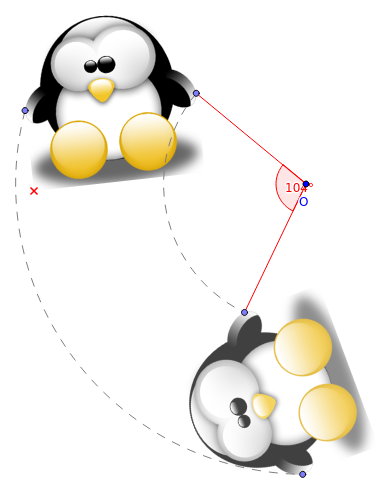
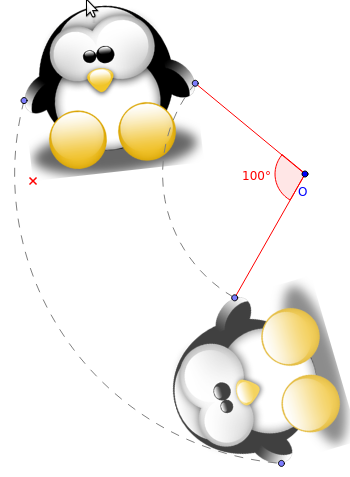
mloz3e2022 - G2 : Cours - Temp Rappels rotation figure

diff --git a/mloz3e2022/G2/G2/inc/coursSubSection004.tex b/mloz3e2022/G2/G2/inc/coursSubSection004.tex
@@ -8,7 +8,69 @@
 \end{definition}
 
 \begin{center}
-    \includegraphics[scale=0.5]{\currentpath/images/coursRotationTux.png}
+    \begin{minipage}{0.45\linewidth}
+        \includegraphics[scale=0.4]{\currentpath/images/coursRotationTux.png}
+    \end{minipage}
+    \begin{minipage}{0.45\linewidth}        
+        \begin{tikzpicture}[scale=1,>=triangle 45]
+            % Points
+            \coordinate (A) at (2,3);
+            \coordinate (B) at (4.5,3);
+            \tkzDefMidPoint(A,B);
+            \tkzGetPoint{I};
+            \coordinate (C) at (4,4);
+            \tkzDefMidPoint(A,C);
+            \tkzGetPoint{K};
+            \coordinate (O) at (2,0);
+            \tkzDrawPoints[shape=cross out](O);
+            \tkzLabelPoints(O);
+            % Tracés
+            \tkzDrawSegment[style=red, dim={$~r~$,-5pt,midway,font=\scriptsize,sloped}](I,B);
+            \draw (A)--(B)--(C)--(A);
+            \draw (K)--(I);
+            \tkzDrawPoints[shape=cross out](I);        
+            \tkzLabelPoints[below right](B);
+            \tkzLabelPoints[below left](A,I);
+            \tkzLabelPoints[above](C,K);
+            \tkzMarkRightAngles[size=0.1](A,K,I A,C,B);
+            \tkzDrawCircle(I,A);
+            % Images
+            \tkzDefPointBy[rotation=center O angle 100](A);\tkzGetPoint{A'};
+            \tkzDefPointBy[rotation=center O angle 100](B);\tkzGetPoint{B'};
+            \tkzDefPointBy[rotation=center O angle 100](C);\tkzGetPoint{C'};
+            \tkzDefPointBy[rotation=center O angle 100](K);\tkzGetPoint{K'};
+            \tkzDefPointBy[rotation=center O angle 100](I);\tkzGetPoint{I'};
+            % Tracés
+            \tkzDrawSegment[style=red, dim={$~r~$,-5pt,midway,font=\scriptsize,sloped}](I',B');
+            \draw (A')--(B')--(C')--(A');
+            \draw (K')--(I');
+            \tkzDrawPoints[shape=cross out](I');        
+            \tkzLabelPoints[above left](B');
+            \tkzLabelPoints[below right](A',I');
+            \tkzLabelPoints[above left](C');
+            \tkzLabelPoints(K');
+            \tkzMarkRightAngles[size=0.1](A',K',I' A',C',B');
+            \tkzDrawCircle(I',A');
+            % Traits de construction
+            \tkzDrawArc[dashed,color=orange,->](O,A)(A');            
+            \tkzDrawArc[dashed,color=orange,->](O,C)(C');
+            \tkzDrawArc[dashed,color=orange,->](O,K)(K');
+            \tkzDrawArc[dashed,color=orange,->](O,I)(I');
+            \draw[dashed, color=orange](O)--(A);
+            \draw[dashed, color=orange](O)--(I);
+            \draw[dashed, color=orange](O)--(C);
+            \draw[dashed, color=orange](O)--(A');
+            \draw[dashed, color=orange](O)--(I');
+            \draw[dashed, color=orange](O)--(C');
+            \tkzMarkAngle[size=0.5](A,O,A');
+            \tkzLabelAngle[pos=0.8](A,O,A'){$\ang{100}$};
+            % Sens de rotation
+            \coordinate (sens) at (2,5);
+            \tkzDefPointBy[rotation= center O angle 15](sens);\tkzGetPoint{sens'};
+            \tkzDrawArc[->](O,sens)(sens');
+            \tkzLabelArc[above](O,sens,sens'){Sens positif};
+        \end{tikzpicture}
+    \end{minipage}
 \end{center}
 
 \begin{remarque}
@@ -24,17 +86,6 @@
 
 % \newpage
 
-\begin{center}
-    %\includegraphics[scale=1]{coursrota.4}
-    \begin{tikzpicture}[scale=1,>=triangle 45]
-        \coordinate (A) at (2,3);
-        \coordinate (B) at (7,3);
-        \tkzDefMidPoint(A,B);
-        \tkzGetPoint{I};
-        \coordinate (C) at (6,5);
-        \draw (A)--(B)--(C)--(A);
-    \end{tikzpicture}
-\end{center}
 
 % \Methode{}{
 % \begin{center}
